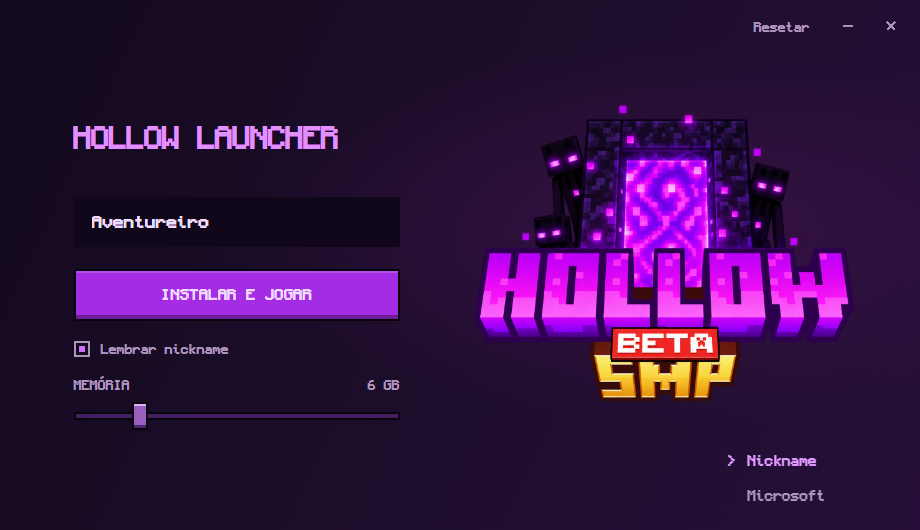
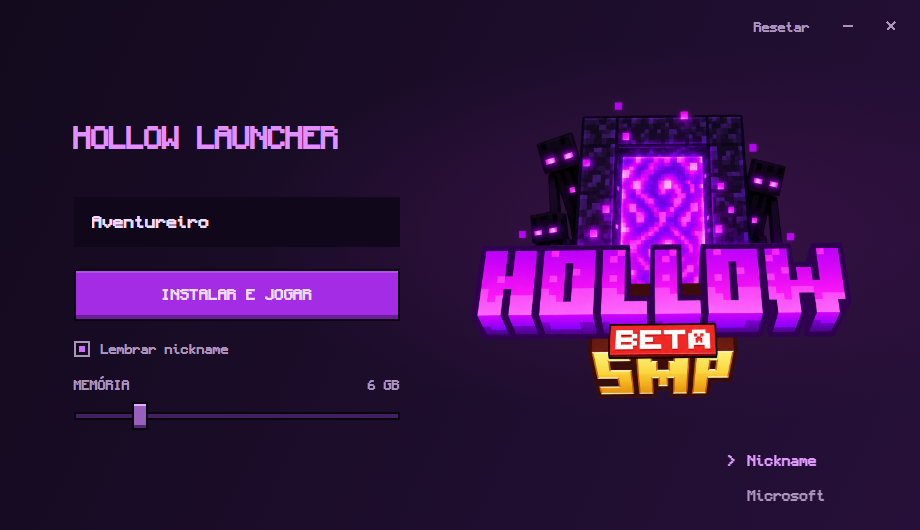
Add smooth launcher motion and reduced-motion support

Changed region(s): [[0.5174, 0.1811, 0.9435, 0.7547]]

diff --git a/renderer/style.css b/renderer/style.css
@@ -3,7 +3,7 @@
 * { box-sizing: border-box; }
 body { margin: 0; color: var(--ink); background: radial-gradient(ellipse at 74% 44%, #371144 0%, transparent 45%), linear-gradient(115deg, #130a1d, #261039); user-select: none; overflow: hidden; }
 button, input, output { font: inherit; }
-button { color: inherit; cursor: pointer; }
+button { color: inherit; cursor: pointer; transition: color 160ms ease, background-color 160ms ease, box-shadow 180ms ease, transform 120ms ease, opacity 160ms ease; }
 button:disabled { cursor: default; opacity: .45; }
 button:focus-visible, input:focus-visible, .account-modes label:has(input:focus-visible) span { outline: 2px solid #de9bff; outline-offset: 5px; }
 [hidden] { display: none !important; }
@@ -13,6 +13,7 @@ button:focus-visible, input:focus-visible, .account-modes label:has(input:focus-
 .text-action, .icon-action { border: 0; background: transparent; box-shadow: none; color: var(--muted); }
 .text-action { padding: 10px 12px; font-size: 12px; line-height: 1.5; }
 .text-action:hover, .icon-action:hover { color: #e0a4ff; }
+.text-action:active:enabled, .icon-action:active:enabled { transform: translateY(1px); }
 .icon-action { width: 34px; height: 34px; padding: 8px; }
 .icon-action svg { width: 16px; height: 16px; fill: none; stroke: currentColor; stroke-width: 2; shape-rendering: crispEdges; }
 main { position: relative; height: 476px; }
@@ -23,13 +24,15 @@ h1 { margin: 0 0 42px; color: #e290ff; font-size: 28px; line-height: 1.3; white-
 .account-input input::placeholder { color: #725a85; }
 .account-input:focus-within { box-shadow: inset 0 -2px #8945a4; }
 #account-note { font-size: 16px; color: var(--muted); }
-.block-button { height: 48px; border: 2px solid #09050f; border-radius: 0; padding: 0 18px; font-size: 14px; letter-spacing: .1px; box-shadow: inset 0 2px #ffffff28, inset 0 -4px #00000055; }
+.block-button { position: relative; overflow: hidden; height: 48px; border: 2px solid #09050f; border-radius: 0; padding: 0 18px; font-size: 14px; letter-spacing: .1px; box-shadow: inset 0 2px #ffffff28, inset 0 -4px #00000055; }
 .primary { background: #a42ce4; }
-.primary:hover:enabled { background: #b238f0; }
+.primary::after { content: ''; position: absolute; inset: 0; pointer-events: none; background: linear-gradient(110deg, transparent 30%, #eed0ff18 48%, transparent 66%); transform: translateX(-100%); transition: transform 550ms cubic-bezier(.22, 1, .36, 1); }
+.primary:hover:enabled { background: #b238f0; transform: translateY(-1px); box-shadow: inset 0 2px #ffffff38, inset 0 -4px #00000055, 0 0 18px #b535f52b; }
+.primary:hover:enabled::after { transform: translateX(100%); }
 .secondary { background: #352040; }
-.block-button:active:enabled { box-shadow: inset 0 4px #00000040, inset 0 -2px #ffffff20; }
+.block-button:active:enabled { transform: translateY(2px); box-shadow: inset 0 4px #00000040, inset 0 -2px #ffffff20; }
 #play { width: 100%; height: 52px; margin-top: 22px; }
-.remember { display: flex; align-items: center; gap: 11px; height: 36px; margin-top: 10px; font-size: 12px; color: var(--muted); cursor: pointer; }
+.remember { display: flex; align-items: center; gap: 11px; height: 36px; margin-top: 10px; font-size: 12px; color: var(--muted); cursor: pointer; transition: opacity 180ms ease; }
 .remember input { position: absolute; opacity: 0; width: 16px; height: 16px; margin: 0; }
 .checkbox { width: 16px; height: 16px; border: 2px solid var(--muted); background: #130b1e; display: grid; place-items: center; }
 .remember input:checked + .checkbox::after { content: ''; width: 6px; height: 6px; background: #ce6dff; }
@@ -47,27 +50,46 @@ input[type=range]:disabled { opacity: .45; cursor: default; }
   0%, 100% { transform: translate3d(-3px, -7px, 0) rotate(-.55deg); }
   50% { transform: translate3d(3px, 7px, 0) rotate(.55deg); }
 }
-body.paused .logo { animation-play-state: paused; }
-@media (prefers-reduced-motion: reduce) { .logo { animation: none; } }
+body.paused *, body.paused *::before, body.paused *::after { animation-play-state: paused !important; }
+body.paused progress::-webkit-progress-bar { animation-play-state: paused !important; }
 .account-modes { position: absolute; right: 29px; bottom: 24px; border: 0; padding: 0; margin: 0; display: grid; gap: 15px; width: 164px; }
 .account-modes label { display: block; cursor: pointer; color: var(--muted); font-size: 13px; line-height: 20px; }
 .account-modes input { position: absolute; width: 1px; height: 1px; opacity: 0; }
 .account-modes span { display: inline-block; }
-.account-modes span::before { content: '>'; visibility: hidden; margin-right: 12px; }
+.account-modes span { transition: color 180ms ease; }
+.account-modes span::before { content: '>'; display: inline-block; opacity: 0; transform: translateX(-4px); margin-right: 12px; transition: opacity 180ms ease, transform 220ms cubic-bezier(.22, 1, .36, 1); }
 .account-modes input:checked + span { color: #e098ff; }
-.account-modes input:checked + span::before { visibility: visible; }
+.account-modes input:checked + span::before { opacity: 1; transform: translateX(0); }
 .account-modes input:disabled + span { opacity: .45; }
 .progress-area { position: absolute; left: 74px; bottom: 13px; width: 570px; }
 progress { appearance: none; display: block; width: 100%; height: 3px; border: 0; background: #351445; }
 progress::-webkit-progress-bar { background: #351445; }
-progress::-webkit-progress-value { background: #c150ff; }
-progress:not([value]) { background: linear-gradient(90deg, #351445 0%, #bf42f0 50%, #351445 100%); animation: progress-pulse 1.4s ease-in-out infinite; }
-@keyframes progress-pulse { 50% { opacity: .45; } }
+progress::-webkit-progress-value { background: linear-gradient(90deg, #9135c5, #d46bff); transition: width 220ms ease-out; }
+progress:not([value]), progress:not([value])::-webkit-progress-bar { background: linear-gradient(90deg, #351445 20%, #bf42f0 50%, #351445 80%); background-size: 200% 100%; animation: progress-travel 1.8s ease-in-out infinite; }
+@keyframes progress-travel { 0%, 100% { background-position: 100% 0; } 50% { background-position: 0 0; } }
+.progress-area.finishing progress::-webkit-progress-value { background: #e7b5ff; }
+.progress-area.finishing #status { color: #e7b5ff; }
 #status { color: var(--muted); font-size: 10px; line-height: 17px; margin: 8px 0 0; white-space: nowrap; overflow: hidden; text-overflow: ellipsis; }
 dialog { width: 550px; max-height: 490px; background: #170b23; color: var(--ink); border: 1px solid #692f8f; padding: 27px; box-shadow: 0 18px 70px #0008; }
-dialog::backdrop { background: #08040ccc; }
+dialog[open] { animation: dialog-enter 220ms cubic-bezier(.22, 1, .36, 1) both; }
+dialog::backdrop { background: #08040ccc; animation: veil-enter 180ms ease-out both; }
+@keyframes dialog-enter { from { opacity: 0; transform: translateY(10px) scale(.985); } to { opacity: 1; transform: translateY(0) scale(1); } }
+@keyframes veil-enter { from { opacity: 0; } to { opacity: 1; } }
 dialog h2 { color: #de88ff; font-size: 19px; line-height: 1.4; margin: 0 0 21px; }
 dialog p { font-size: 12px; line-height: 1.8; margin: 0 0 16px; white-space: pre-line; overflow-wrap: anywhere; }
 .dialog-actions { display: flex; justify-content: flex-end; gap: 16px; margin-top: 23px; }
 .dialog-actions button { min-width: 140px; }
 .visually-hidden { position: absolute; width: 1px; height: 1px; padding: 0; margin: -1px; overflow: hidden; clip: rect(0, 0, 0, 0); white-space: nowrap; border: 0; }
+
+body:not(.entered) .controls, body:not(.entered) .brand, body:not(.entered) .account-modes { opacity: 0; }
+body.entering .controls { animation: panel-enter 560ms cubic-bezier(.22, 1, .36, 1) both; }
+body.entering .brand { animation: brand-enter 800ms 60ms cubic-bezier(.22, 1, .36, 1) both; }
+body.entering .account-modes { animation: panel-enter 440ms 120ms cubic-bezier(.22, 1, .36, 1) both; }
+@keyframes panel-enter { from { opacity: 0; transform: translateY(8px); } to { opacity: 1; transform: translateY(0); } }
+@keyframes brand-enter { from { opacity: 0; transform: translateY(10px) scale(.975); } to { opacity: 1; transform: translateY(0) scale(1); } }
+@media (prefers-reduced-motion: reduce) {
+  *, *::before, *::after { animation: none !important; transition: none !important; }
+  progress::-webkit-progress-bar { animation: none !important; transition: none !important; }
+  .primary::after { display: none; }
+  .primary:hover:enabled, .block-button:active:enabled, .text-action:active:enabled, .icon-action:active:enabled { transform: none; }
+}

diff --git a/renderer/app.js b/renderer/app.js
@@ -2,6 +2,34 @@
 const $ = selector => document.querySelector(selector);
 let current = { ready: false, busy: false, gameRunning: false };
 let saveTimer;
+const reducedMotion = matchMedia('(prefers-reduced-motion: reduce)');
+const motion = new Map();
+let completionTimer, completed = false;
+
+function animate(element, frames, duration = 240) {
+  motion.get(element)?.cancel();
+  motion.delete(element);
+  if (reducedMotion.matches || document.hidden) return;
+  const animation = element.animate(frames, { duration, easing: 'cubic-bezier(.22, 1, .36, 1)' });
+  motion.set(element, animation);
+  animation.finished.then(() => { if (motion.get(element) === animation) motion.delete(element); }).catch(() => {});
+}
+function showDialog(dialog) {
+  if (!dialog.open) dialog.showModal();
+}
+function closeDialog(dialog) {
+  if (!dialog.open || dialog.dataset.closing) return;
+  if (reducedMotion.matches || document.hidden) { dialog.close(); return; }
+  dialog.dataset.closing = 'true';
+  dialog.inert = true;
+  animate(dialog, [{ opacity: 1, transform: 'translateY(0) scale(1)' }, { opacity: 0, transform: 'translateY(6px) scale(.99)' }], 150);
+  const animation = motion.get(dialog);
+  const finish = () => { delete dialog.dataset.closing; dialog.inert = false; dialog.close(); };
+  animation ? animation.finished.then(finish, finish) : finish();
+}
+function clearCompletion() {
+  clearTimeout(completionTimer); completed = false;
+}
 
 function options() {
   return { mode: $('[name=mode]:checked').value, nickname: $('#nickname').value.trim(), ram: Number($('#ram').value), remember: $('#remember').checked };
@@ -25,15 +53,17 @@ function render() {
   for (const element of document.querySelectorAll('#reset, #play, #nickname, #ram, [name=mode]')) element.disabled = current.busy || element.id === 'play' && current.gameRunning;
   $('#close').disabled = current.busy;
   $('#ram-value').textContent = `${$('#ram').value} GB`;
-  $('.progress-area').hidden = !current.busy;
-  $('#status').textContent = current.text || '';
-  if (Number.isFinite(current.percent)) $('#progress').value = current.percent;
+  $('.progress-area').hidden = !current.busy && !completed;
+  $('.progress-area').classList.toggle('finishing', completed);
+  $('#status').textContent = completed ? 'Instalação concluída.' : current.text || '';
+  if (completed) $('#progress').value = 100;
+  else if (Number.isFinite(current.percent)) $('#progress').value = current.percent;
   else $('#progress').removeAttribute('value');
 }
 function message(text, title = 'Hollow SMP') {
   $('#message-title').textContent = title;
   $('#message-text').textContent = text;
-  if (!$('#message').open) $('#message').showModal();
+  showDialog($('#message'));
 }
 async function execute(operation) {
   clearTimeout(saveTimer);
@@ -55,15 +85,43 @@ $('#play-form').addEventListener('submit', event => { event.preventDefault(); if
 $('#ram').addEventListener('input', () => { render(); save(); });
 $('#nickname').addEventListener('input', save);
 $('#remember').addEventListener('change', save);
-for (const mode of document.querySelectorAll('[name=mode]')) mode.addEventListener('change', () => { render(); save(); });
-$('#reset').addEventListener('click', () => { if (!current.busy) { clearTimeout(saveTimer); $('#confirm-reset').showModal(); } });
-$('#cancel-reset').addEventListener('click', () => $('#confirm-reset').close());
-$('#do-reset').addEventListener('click', () => { $('#confirm-reset').close(); execute(() => window.hollow.reset()); });
-$('#message-ok').addEventListener('click', () => $('#message').close());
-document.addEventListener('visibilitychange', () => document.body.classList.toggle('paused', document.hidden));
+for (const mode of document.querySelectorAll('[name=mode]')) mode.addEventListener('change', () => {
+  render(); save();
+  animate(options().mode === 'microsoft' ? $('#account-note') : $('#nickname'), [{ opacity: 0, transform: 'translateY(4px)' }, { opacity: 1, transform: 'translateY(0)' }]);
+});
+$('#reset').addEventListener('click', () => { if (!current.busy) { clearTimeout(saveTimer); showDialog($('#confirm-reset')); } });
+$('#cancel-reset').addEventListener('click', () => closeDialog($('#confirm-reset')));
+$('#do-reset').addEventListener('click', () => { closeDialog($('#confirm-reset')); execute(() => window.hollow.reset()); });
+$('#message-ok').addEventListener('click', () => closeDialog($('#message')));
+for (const dialog of document.querySelectorAll('dialog')) dialog.addEventListener('cancel', event => { event.preventDefault(); closeDialog(dialog); });
+document.addEventListener('visibilitychange', () => {
+  document.body.classList.toggle('paused', document.hidden);
+  for (const [element, animation] of motion) {
+    if (document.hidden && element.tagName === 'DIALOG') animation.finish();
+    else if (document.hidden) animation.pause();
+    else animation.play();
+  }
+});
+$('.brand').addEventListener('animationend', event => { if (event.animationName === 'brand-enter') document.body.classList.remove('entering'); });
+reducedMotion.addEventListener('change', () => {
+  if (reducedMotion.matches) { document.body.classList.remove('entering'); for (const animation of motion.values()) animation.finish(); }
+});
 window.hollow.onState(value => {
   if (value.gameRunning && !current.gameRunning && $('#message').open) $('#message').close();
+  const wasBusy = current.busy, wasReady = current.ready;
   current = { ...current, ...value };
+  if (current.gameRunning || current.busy && !wasBusy) clearCompletion();
+  if (!current.gameRunning && (value.text === 'Instalação concluída.' && value.percent === 100 || !completed && wasBusy && !wasReady && current.ready)) {
+    completed = true;
+    animate($('.progress-area'), [{ opacity: .4, transform: 'translateY(3px)' }, { opacity: 1, transform: 'translateY(0)' }]);
+    clearTimeout(completionTimer);
+    completionTimer = setTimeout(() => { completed = false; render(); }, 1800);
+  }
   render();
 });
-window.hollowTestReady = window.hollow.state().then(value => { current = value; settings(value.settings); return true; }).catch(() => { message('Não consegui carregar as preferências. Abra o launcher novamente.'); return false; });
+window.hollowTestReady = window.hollow.state().then(async value => {
+  current = value; settings(value.settings); await document.fonts.ready;
+  document.body.classList.add('entered');
+  if (!reducedMotion.matches) document.body.classList.add('entering');
+  return true;
+}).catch(() => { document.body.classList.add('entered'); message('Não consegui carregar as preferências. Abra o launcher novamente.'); return false; });

diff --git a/README.md b/README.md
@@ -1,7 +1,7 @@
 <p align="center"><img src="assets/logo_smp.png" alt="Hollow SMP" width="260"></p>
 <h1 align="center">Hollow Launcher</h1>
 <p align="center">Launcher Electron do Hollow SMP para Windows.<br>Instalação automática, visual pixelado e modpack pelo AutoModpack.</p>
-<p align="center"><img alt="Electron" src="https://img.shields.io/badge/Electron-44.5.1-8b2de2"> <img alt="Minecraft" src="https://img.shields.io/badge/Minecraft-1.21.1-bb55ff"> <img alt="Launcher" src="https://img.shields.io/badge/Launcher-2.1.0-rc.1-8b2de2"></p>
+<p align="center"><img alt="Electron" src="https://img.shields.io/badge/Electron-44.5.1-8b2de2"> <img alt="Minecraft" src="https://img.shields.io/badge/Minecraft-1.21.1-bb55ff"> <img alt="Launcher" src="https://img.shields.io/badge/Launcher-2.1.0-rc.2-8b2de2"></p>
 
 ![Interface do Hollow Launcher](docs/launcher.png)
 
@@ -24,6 +24,7 @@ A versão 2.0 substitui a interface Windows Forms por HTML, CSS e JavaScript, co
 
 - Cores roxas da logo, fonte Monocraft em negrito e controles superiores sem borda.
 - Flutuação suave da logo com animação CSS por `transform`, pausada ao ocultar a janela. Respeita a preferência do sistema por movimento reduzido.
+- Entrada suave da interface, brilho discreto e pressão nos botões, troca animada de conta, progresso e avisos com transições. Animações não deslocam o layout final nem bloqueiam os controles.
 - Memória de 2 a 24 GB por arraste ou teclado.
 - Reset com confirmação e preparação automática da nova instalação.
 - Launcher escondido enquanto o Minecraft está aberto, retornando ao fechar o jogo.
@@ -74,7 +75,7 @@ npm run build
 npm run package
 ```
 
-`build` gera `dist/HollowSMP-Launcher-2.1.0-rc.1.exe`, um executável portátil. `package` gera `dist/HollowSMP-Launcher-Windows.zip`, instruções, licenças e `SHA256.txt`. O empacotamento usa electron-builder e não exige Visual Studio ou compilador C#.
+`build` gera `dist/HollowSMP-Launcher-2.1.0-rc.2.exe`, um executável portátil. `package` gera `dist/HollowSMP-Launcher-Windows.zip`, instruções, licenças e `SHA256.txt`. O empacotamento usa electron-builder e não exige Visual Studio ou compilador C#.
 
 O executável não possui certificado de assinatura de código do Hollow. Para uma distribuição assinada, configure seu certificado no electron-builder.
 

diff --git a/docs/VALIDACAO.md b/docs/VALIDACAO.md
@@ -52,3 +52,7 @@ Flutuação com ciclo de oito segundos, deslocamento vertical de 14 px, lateral 
 ## Prévia 2.1.0-rc.1 — Microsoft direto
 
 Integração OAuth PKCE implementada; nenhum launcher oficial é aberto. Oito testes novos verificam callback local/state/PKCE, renovação, cancelamento, recusa da API, conta sem acesso ao Java, ausência de criptografia, argumentos online e ocultação de tokens. Serviços Microsoft/Xbox/Minecraft simulados; conta real e servidor autenticado ainda não validados. O smoke Electron verifica nome de conta, cancelamento e criptografia Windows real. Um Java real verificou a proteção do arquivo de argumentos e sua remoção ao encerrar. Consulte MICROSOFT.md: falta Client ID próprio aprovado.
+
+## Motion design — 2.1.0-rc.2
+
+Teste Electron: entrada concluída, 12 trocas rápidas de conta sem deslocar a área de entrada, fechamento animado e Escape nos avisos, confirmação de instalação e limpeza do indicador, movimento reduzido e mudança dessa preferência sem esconder a interface. A flutuação original da logo, memória e ocultar/restaurar o launcher continuam verificados.
